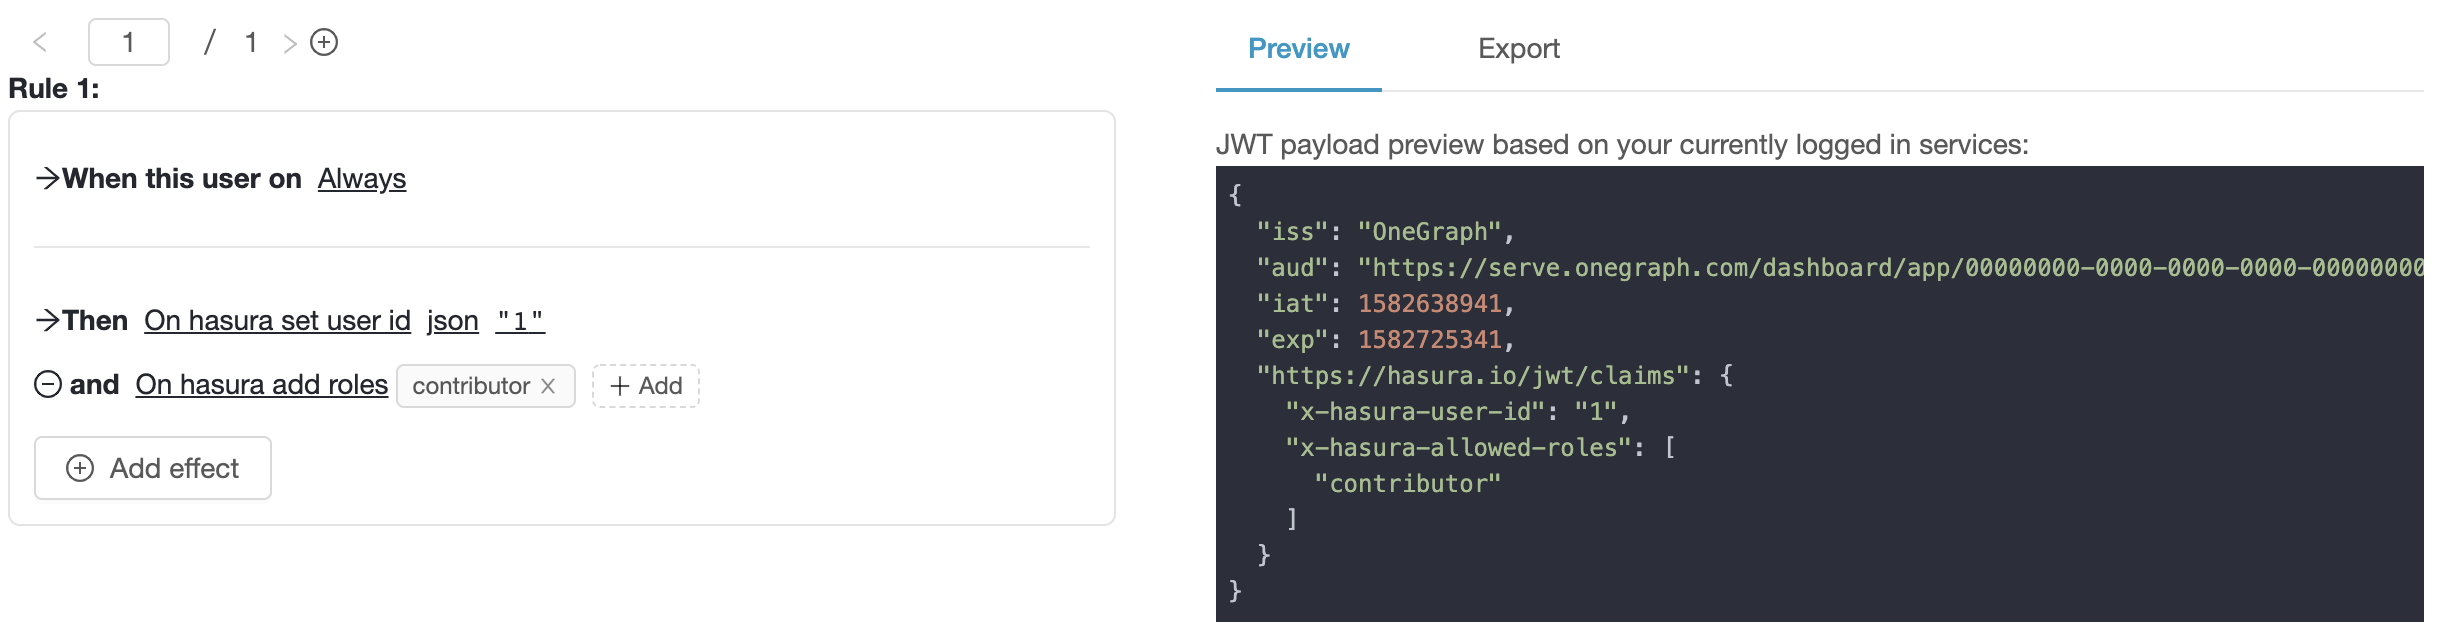
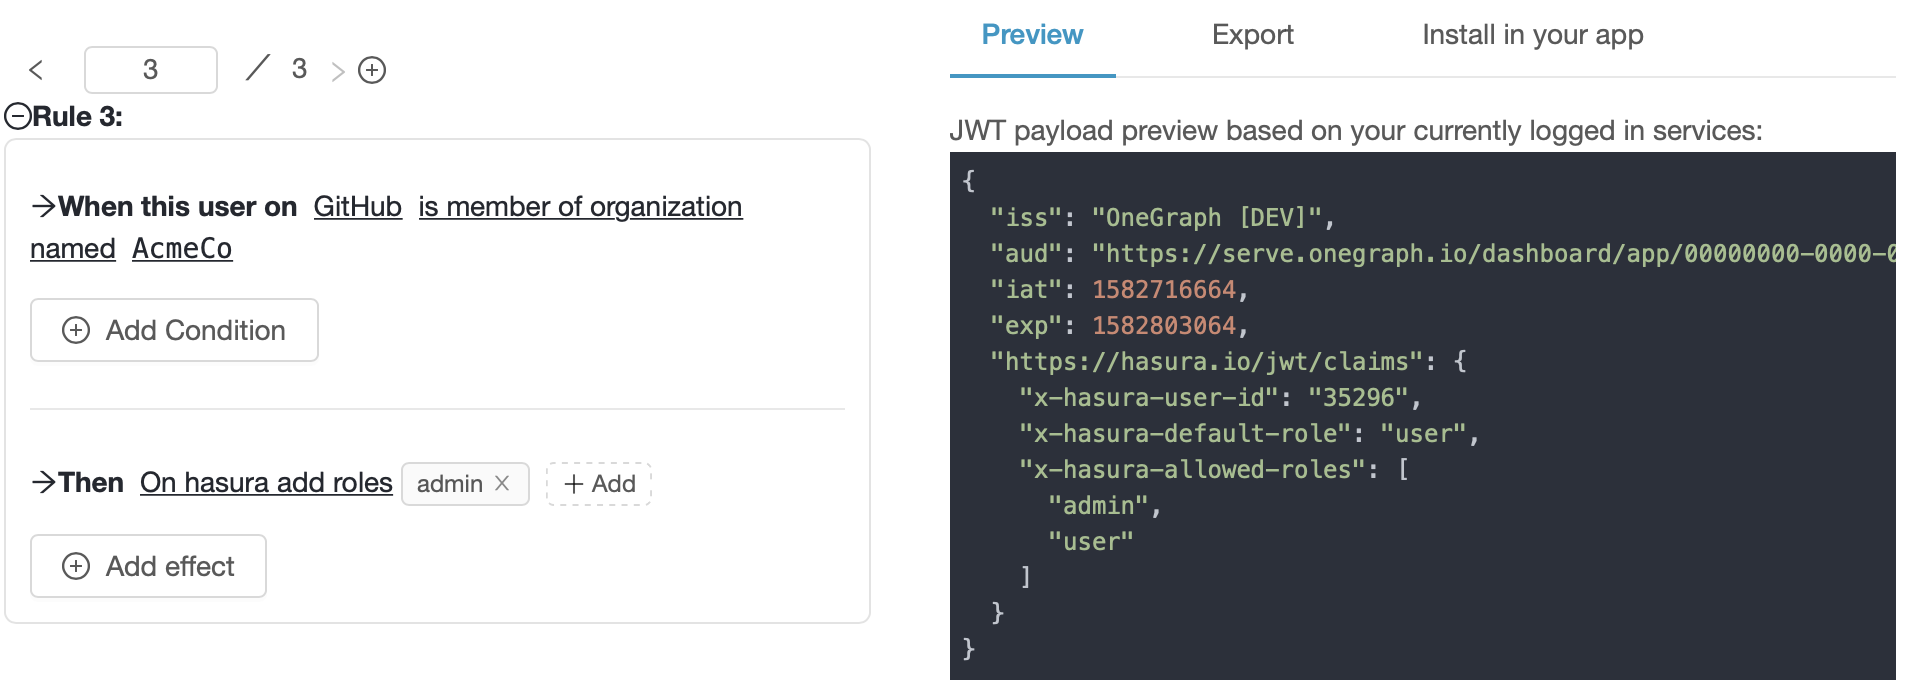
Touchup AuthGuardian docs

diff --git a/docs/graphql/manual/guides/integrations/auth-guardian-jwt.rst b/docs/graphql/manual/guides/integrations/auth-guardian-jwt.rst
@@ -18,73 +18,112 @@ About AuthGuardian
 ^^^^^^^^^^^^^^^^^^
 
 `AuthGuardian <https://www.onegraph.com/docs/auth_guardian.html>`__
-is a free service by `OneGraph <https://www.onegraph.com/>`__ that allows you to easily visually describe auth rules for your app, API or service.
-It will generate JWTs that can be used for any service that supports JWTs.
+is a free service by `OneGraph <https://www.onegraph.com/>`__ that allows you to both add sign-on with dozens of services like GitHub, Twitch, Stripe, Salesforce, and more, and also to easily visually describe authentication and authorization rules for your app, API, or service.
 
-AuthGuardian has built-in support for Hasura that works well with Hasura's permission system.
+It will generate JWTs compatible with any service that supports JWTs - like Hasura! And on top of that, AuthGuardian has built-in support for generating Hasura roles to make working with Hasura's permission system as easy as possible.
 
 Step 1: Create an account
 ^^^^^^^^^^^^^^^^^^^^^^^^^
 
-Create an account, an organization and a project on `OneGraph <https://www.onegraph.com/>`__.
+Sign into `OneGraph <https://www.onegraph.com/>`__ with either GitHub or an email/password.
+
+On the left sidebar, chose "Auth Services" and then "AuthGuardian", and we're ready to start!
 
 Step 2: Add an auth rule
 ^^^^^^^^^^^^^^^^^^^^^^^^
 
-On the left sidebar, chose "Auth Services" and then "AuthGuardian".
+AuthGuardian works with two basic concepts: ``rules`` and ``effects``. 
 
-There are four options how to generate Hasura compatible JWTs.
-Several options can be combined depending on your permission settings.
+``Effects`` are useful for modifying the JWT during sign-in. AuthGuardian supports four ``effects``:
+
+- Set the user-id for Hasura in the JWT
+- Set the default Hasura user role in the JWT
+- Set the allowed Hasura user roles in the JWT
+- Set sessions variables for Hasura to use in the JWT
+
+These can all be mixed and matched when creating Hasura-compatible JWTs to fully cover your app's permission settings.
+
+The second concept, ``rules`` determine whether the ``effects`` are allowed to be added to the JWT. The rules might look like:
+
+- "If this user is logged into Twitch.tv"
+- "If this user has an email on Salesforce that belongs to my organization's domain"
+- "If this user is a member of my GitHub organization"
+
+
+Let's see how to use these ``rules`` and ``effects`` in action! 
 
 Option 1: Set Hasura ``user_id``
 --------------------------------
+Let's say you're using GitHub as the primary login for your Hasura app, and that you want to use their GitHub ``userId`` as a primary key:
 
-- For the section "When the user is on", select ``Always``.
+- For the section "When the user on", select ``GitHub`` -> ``login status`` -> ``is true`` ("When this user is logged into GitHub")
 - For the section "Then", choose ``On hasura set user id``.
-- Add the user id in the "JSON" field, e.g. ``1``.
+- Add set the user id in the "built-in value" field to ``GITHUB_USER_ID``
 - Click the ``save`` button on the right hand side.
 
 .. thumbnail:: ../../../../img/graphql/manual/guides/auth-guardian-user-id.png
-   :alt: Set an auth guardian JWT with a user id
+   :alt: Set an AuthGuardian JWT with a user id
 
 Option 2: Set the default Hasura role
 -------------------------------------
+Next, you want to assign a *default* role for all users, even those who haven't logged in with GitHub yet.
 
-- For the section "When the user is on", select ``Always``.
+Add a new rule (the ``+`` button in the top-left), and fill it out:
+
+- For the section "When the user is on", select ``Always`` (this will *always* pass, even if the user isn't logged into any service).
 - For the section "Then", choose ``On hasura set default role``.
 - Add the default role, e.g. ``user``.
 - Click the ``save`` button on the right hand side.
 
 .. thumbnail:: ../../../../img/graphql/manual/guides/auth-guardian-default-role.png
-   :alt: Set an auth guardian JWT with default role
+   :alt: Set an AuthGuardian JWT with default role
 
 .. note::
 
-   Note that a second claim ``x-hasura-allowed-roles`` was added and the default role was added to it.
+   Note that AuthGuardian knows that Hasura requires that the ``default role`` *also* appear in the list of ``x-hasura-allowed-roles``, and added it in both places automatically.
 
 Option 3: Allow additional Hasura roles
 ---------------------------------------
+Now, you want to restrict access to some data in Hasura so that only you and your teammates can read it. We'll use Hasura's permissions to restrict data to those who have an ``admin`` role, and use AuthGuardian's rules to set that role in the JWT to people who belong to your GitHub organization:
 
-- For the section "When the user is on", select ``Always``.
+- For the section "When the user is on", select ``GitHub`` -> ``is member of organization named`` -> ``<your org name, e.g. AcmeCo>`` ("When this user is a member of AcmeCo on GitHub")
 - For the section "Then", choose ``On hasura add roles``.
-- Click on "Add" and add an additional role, e.g. ``contributor``.
+- Click on "Add" and add an additional role, e.g. ``admin``.
 - Click the ``save`` button on the right hand side.
 
 .. thumbnail:: ../../../../img/graphql/manual/guides/auth-guardian-additional-role.png
-   :alt: Set an auth guardian JWT with additional roles
+   :alt: Set an AuthGuardian JWT with additional roles
 
 Option 4: Set a session variable
 --------------------------------
+Hasura can use **session variables** for all sorts of `powerful cases <https://docs.hasura.io/1.0/graphql/manual/auth/authorization/roles-variables.html#dynamic-session-variables>`_. AuthGuardian also supports setting these in your JWT!
 
-- For the section "When the user is on", select ``Always``.
+Let's say we want to restrict access to some super-interesting data in our Hasura backend to users who have starred a particular GitHub repository:
+
+- For the section "When the user is on", select ``GitHub`` -> ``has starred a repository with a full name of`` -> ``hasura/graphql-engine`` ("When this user has starred the 'hasura/graphql-engine' on GitHub")
 - For the section "Then", choose ``On hasura set session variable``.
-- Add your session variable name and the value.
+- Add your session variable name ``is-our-biggest-fan`` and value to JSON ``true``.
 - Click the ``save`` button on the right hand side.
 
-SCREENSHOT
+.. thumbnail:: ../../../../img/graphql/manual/guides/auth-guardian-session-variable.png
+   :alt: Set an AuthGuardian JWT with session variables for Hasura to use
 
-Step 3: Generate the JWT config
-^^^^^^^^^^^^^^^^^^^^^^^^^^^^^^^
+.. note::
+
+   AuthGuardian knows where to place Hasura session variables in the JWT, and also knows to prefix the variables with `x-hasura-` automatically
+
+You're all done! Now whenever a user hits your Hasura API they'll always have a default role of ``user``, and:
+
+- Their Hasura user-id will match their (permanent) GitHub user id if they're logged into GitHub
+- They'll be allowed to use the ``admin`` permissions if they're a member of your GitHub organization
+- They'll have a session variable of ``x-hasura-is-our-biggest-fan: true`` if they've starred ``hasura/graphql-engine`` on GitHub
+
+Nice!
+
+
+Step 3: Generate Hasura's JWT config to securely verify your new tokens
+^^^^^^^^^^^^^^^^^^^^^^^^^^^^^^^^^^^^^^^^^^^^^^^^^^^^^^^^^^^^^^^^^^^^^^^
+Next we'll configure Hasura to verify our new JWTs - don't worry, AuthGuardian also has built-in support for that!
 
 - On the left sidebar, click on "JWT Settings" and scroll down to "Configuration generator".
 - Choose either "Hasura" or "Hasura on Heroku".
@@ -101,15 +140,26 @@ The generated config has the following structure:
 
 - Add the generated config as a value for the environment variable ``HASURA_GRAPHQL_JWT_SECRET`` or for the ``--jwt-secret`` server flag.
 
-Step 4: Test the config
-^^^^^^^^^^^^^^^^^^^^^^^
+.. thumbnail:: ../../../../img/graphql/manual/guides/auth-guardian-config-generator.png
+   :alt: AuthGuardian lets you copy/paste the required JWT configuration for either Hasura or Hasura-on-Heroku
+
+Step 4: Test the config and tokens
+^^^^^^^^^^^^^^^^^^^^^^^^^^^^^^^^^^
+When configuring your permissions in Hasura, it's useful to be able to quickly generate test tokens to make sure everything works as you expect.
 
 - Copy the JWT that you created in step 2.
 - On the left sidebar, click on "JWT settings" and scroll down to "Generate signed token".
-- Paste the copied JWT.
+- Paste the copied JWT (or optionally write your own JSON if you want to test alternative scenarios).
 - Copy the signed token and add it as a header in the Hasura console.
+
+.. thumbnail:: ../../../../img/graphql/manual/guides/auth-guardian-generate-test-jwt.png
+   :alt: Use the JWT-signer form to quickly sign any JSON and test in the Hasura console
+
+- In GraphiQL, try out queries to test that the integration works as expected by an ``Authorization`` header, with a value of ``Bearer <the-copied-JWT-text>``. Hasura's GraphiQL will recognize this header, show you its content, and confirm whether it recognizes the JWT as securely signed.
 
 .. thumbnail:: ../../../../img/graphql/manual/guides/auth-guardian-test-jwt.png
    :alt: Test AuthGuardian JWT
 
-- On GraphiQL, try out queries to test that the integration works as expected.
+Next Steps
+^^^^^^^^^^
+AuthGuardian supports much more, including the ability to eject your rules as a pair of GraphQL query and JavaScript function so you can customize the auth as necessary. To read more about it, please visit the `AuthGuardian docs <https://www.onegraph.com/docs/>`__.
